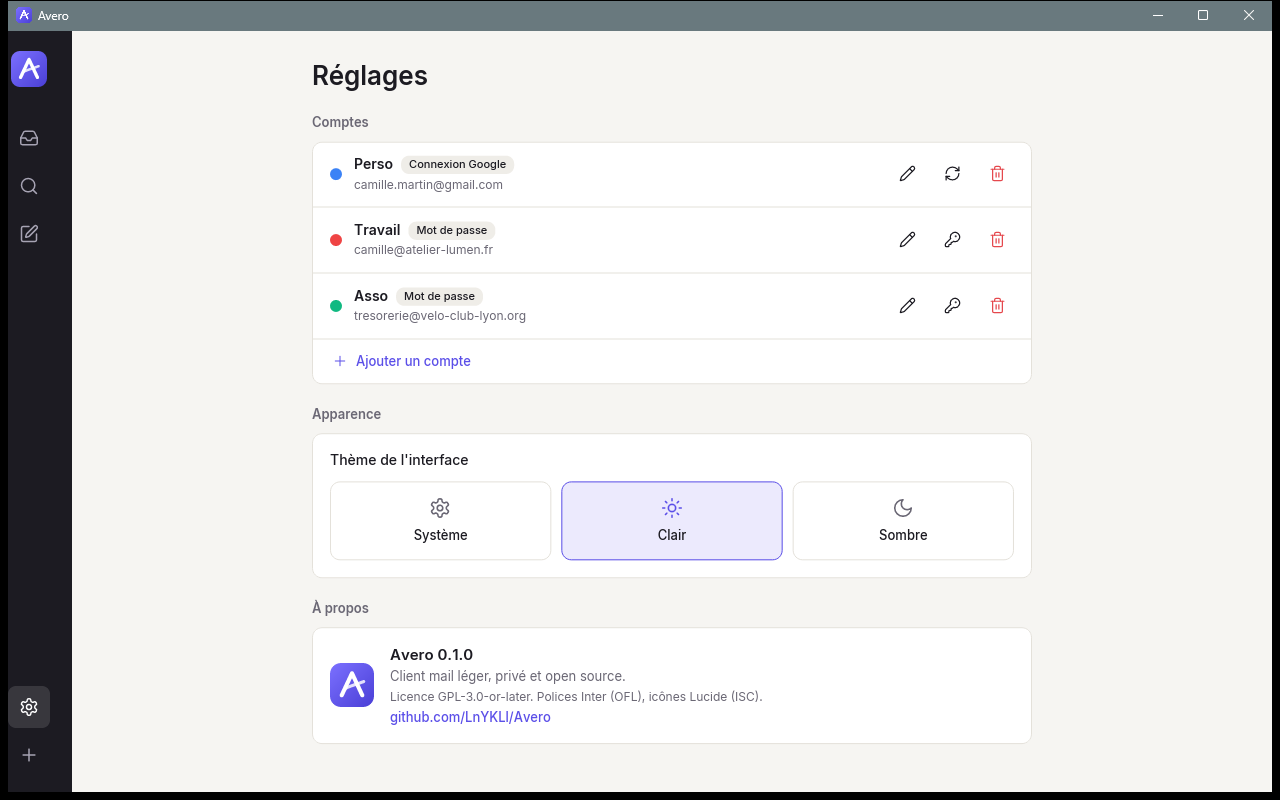
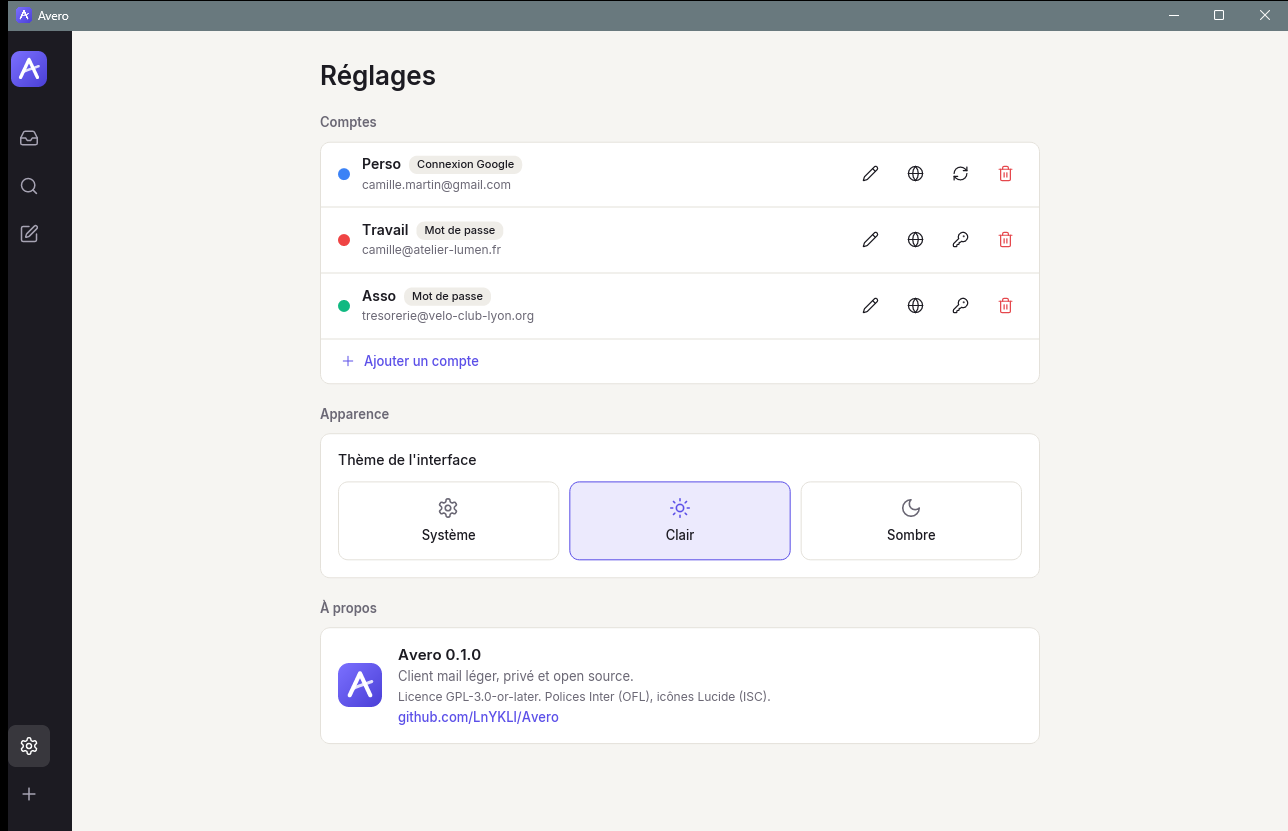
docs: limites de la synchro (dossiers spéciaux, 2000 messages), Archives Gmail, réglage Serveurs
Capture des réglages mise à jour (bouton Serveurs).

diff --git a/README.md b/README.md
@@ -12,13 +12,13 @@ Supported platforms: Windows, macOS and Linux. The interface is in French.
 
 ## Features
 
-- **Easy account setup.** Type your address and Avero finds the servers by itself (built-in table, Thunderbird ISPDB, `autoconfig.<domain>`, then a guess). Gmail and Microsoft accounts can sign in with "Continuer avec Google / Microsoft" in the browser (OAuth2, PKCE). Other providers use a password or an app password. The IMAP login is tested before the account is saved.
+- **Easy account setup.** Type your address and Avero finds the servers by itself (built-in table, Thunderbird ISPDB, `autoconfig.<domain>`, then a guess). Gmail and Microsoft accounts can sign in with "Continuer avec Google / Microsoft" in the browser (OAuth2, PKCE). Other providers use a password or an app password. The IMAP and SMTP logins are tested before the account is saved.
 - **Unified inbox** for all accounts, with a filter per account and the usual folders (Réception, Envoyés, Brouillons, Archives, Spam, Corbeille). Messages received by several of your accounts appear once.
 - **Reading**: plain text (HTML is converted to text locally, nothing is downloaded from the web), attachments saved with the system "Save as" dialog, messages marked as read automatically.
-- **Acting**: reply, reply all, forward (with the original attachments), write a new message with attachments (25 MB max), archive, delete (to the trash), mark as unread.
+- **Acting**: reply, reply all, forward (with the original attachments), write a new message with attachments (25 MB max), archive, delete (to the trash; from the trash, deleted for good after a confirmation), mark as unread. An archive or delete only leaves the local copy once the server has confirmed it; if it fails, the message comes back with the reason.
 - **Search** over subjects, senders and downloaded message bodies (SQLite FTS5, works offline).
 - **Staying up to date**: sync at start-up, every 5 minutes and with the refresh button; the list fills in while syncing; the bodies of the 30 newest inbox messages are downloaded in the background so they open instantly.
-- **Account management**: rename, change password, reconnect (OAuth), remove.
+- **Account management**: rename, change password, reconnect (OAuth), edit the IMAP and SMTP servers ("Serveurs"), remove.
 - **Light and dark themes**, following the system or chosen in the settings.
 - Keyboard: `Ctrl+N` new message, `Ctrl+R` reply, `Ctrl+Enter` send, `Ctrl+F` search, `J` / `K` next / previous message, `Suppr` delete, `Échap` close.
 
@@ -62,11 +62,12 @@ Removing an account in the settings deletes its local messages and its keyring e
 ## Known limitations
 
 - The V1 interface has mostly been exercised with the demo data and automated tests; testing against real servers is still limited. OAuth (Google, Microsoft) is implemented but needs a registered client id to be tried.
-- Gmail: "Archiver" moves the message to "All Mail", which Avero does not sync (it duplicates every other folder), so archived Gmail messages leave Avero's view.
+- Gmail: "Archiver" moves the message to "All Mail", which Avero does not sync (it duplicates every other folder), so archived Gmail messages leave Avero's view. The "Archives" tab is hidden when no account has a real archive folder.
+- Only the special folders are synced (Réception, Envoyés, Brouillons, Archives, Spam, Corbeille); your own folders and Gmail labels are not shown yet.
+- The first sync of a folder fetches its 2000 most recent messages; older ones are not downloaded.
 - Only the inbox has its read flags and deletions resynchronised from the server; other folders only receive new messages.
 - Messages are shown as plain text; there is no HTML view and inline images are not displayed.
 - No drafts saving, no signatures, no threads (conversation view), no notifications yet.
-- Deleting from the trash is not possible (the button is disabled there).
 - Search covers only bodies already downloaded (the 30 newest inbox messages, plus every message you opened).
 
 ## Tests
